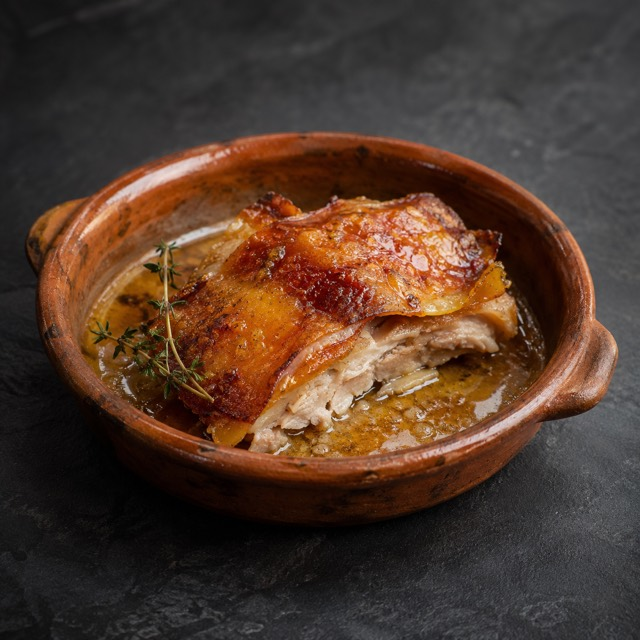
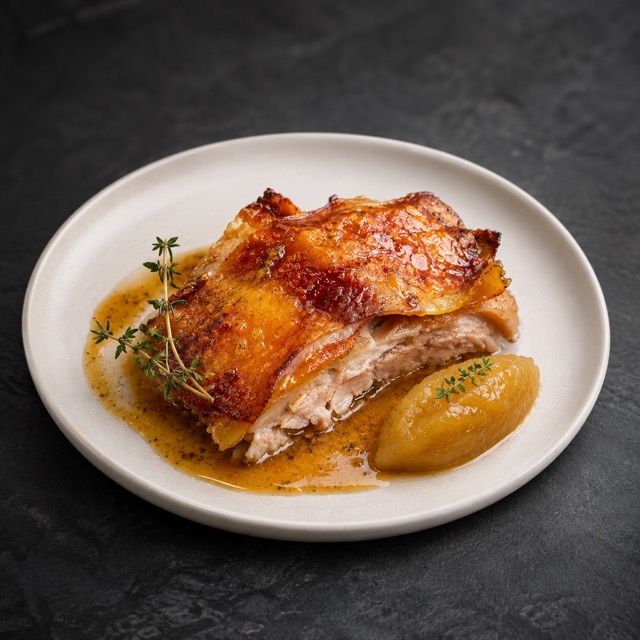
Fiestas: Sant Esteve single XXL canelón, cochinillo with reineta apple compote, individual red velvet cake

diff --git a/fiestas/menus.js b/fiestas/menus.js
@@ -65,7 +65,7 @@ window.FIESTAS = {
           { key: 'cord26', es: 'Paletilla de cordero al horno con finas hierbas, patatas aromatizadas y salsa de su jugo' },
           { key: 'bacm26', es: 'Lomo de bacalao a la muselina de ajo con patatas panaderas' },
           { key: 'paes26', es: 'Paella del señorito con gambas rojas' },
-          { key: 'coch26', es: 'Cochinillo asado' }
+          { key: 'coch26', es: 'Cochinillo asado con piel crujiente, compota de manzana reineta y su jugo' }
         ],
         postre: [
           { key: 'redv26', es: 'Tarta red velvet' },
